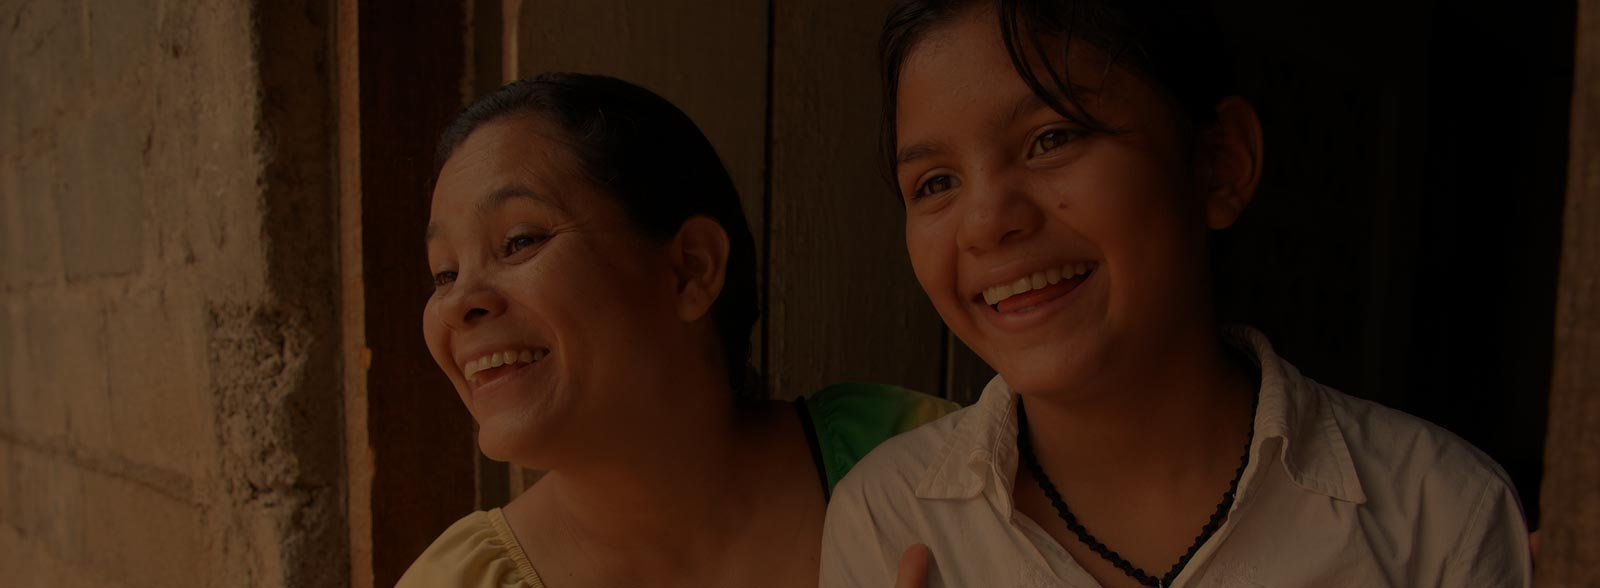
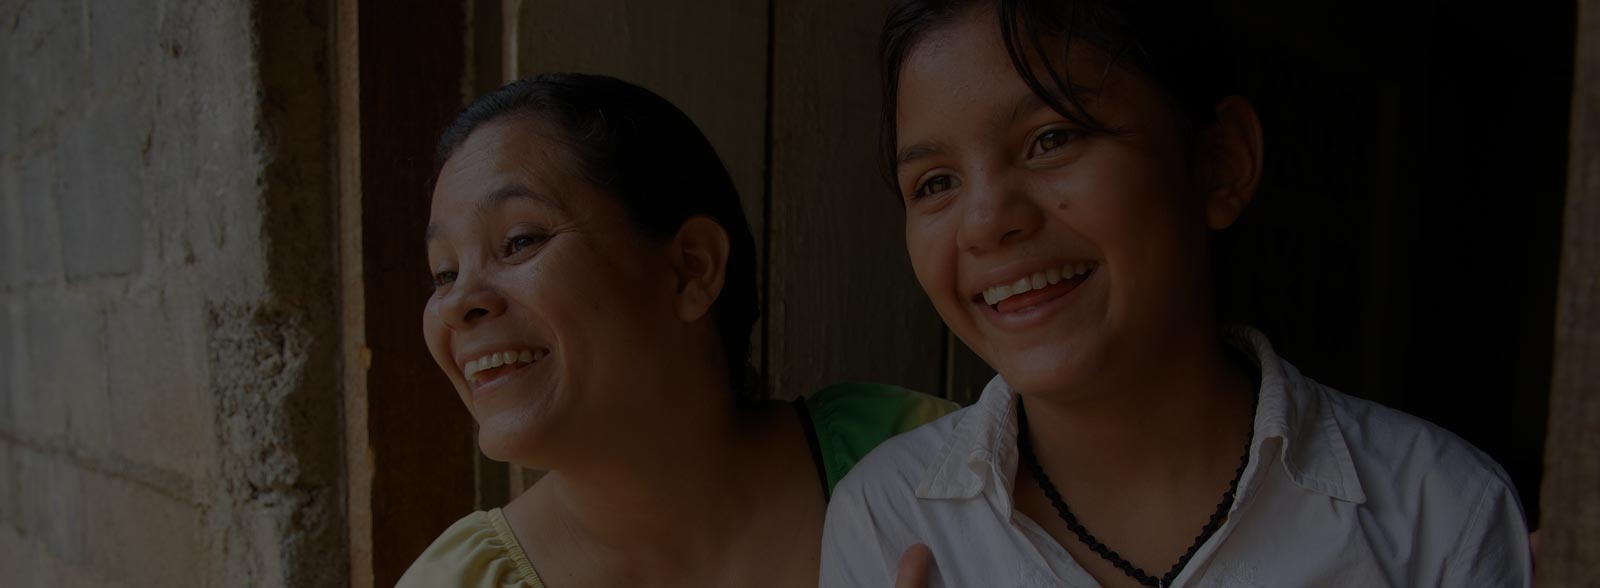
Update Int hero imgs / Fix event grid

diff --git a/sites/all/themes/gfcd/assets/css/application.css b/sites/all/themes/gfcd/assets/css/application.css
@@ -928,7 +928,7 @@ button {
 
 .hero {
   position: relative;
-  background: #212121 url('../images/hero-int-01.jpg?1408314159') no-repeat center center;
+  background: #212121 url('../images/hero-int-01.jpg?1409853054') no-repeat center center;
   background-size: cover;
   text-align: center;
   color: #fff;
@@ -1062,6 +1062,10 @@ button {
 }
 .page-node-3 .hero .icon-arrow-down:hover {
   opacity: 1;
+}
+
+.page-node-4 .hero {
+  background-image: url('../images/hero-int-02.jpg?1409853034');
 }
 
 .sub-nav {
@@ -1202,11 +1206,14 @@ button {
 
 .view-events .col-1-3 {
   position: relative;
-  width: 100%;
-  max-width: 400px;
   margin: 0 auto 24px;
 }
-@media (min-width: 600px) {
+@media (max-width: 600px) {
+  .view-events .col-1-3 {
+    max-width: 400px;
+  }
+}
+@media (max-width: 800px) and (min-width: 600px) {
   .view-events .col-1-3 {
     width: 50%;
     margin-bottom: 24px;

diff --git a/sites/all/themes/gfcd/assets/sass/components/_events-grid.scss b/sites/all/themes/gfcd/assets/sass/components/_events-grid.scss
@@ -1,11 +1,13 @@
 
 .view-events .col-1-3 {
   position: relative;
-  width: 100%;
-  max-width: 400px;
   margin: 0 auto $base;
+  
+  @include bp-max-width($small) {
+    max-width: 400px;
+  }
 
-  @include bp-min-width($small) {
+  @include bp-min-max($small, $medium) {
     width: 50%;
     margin-bottom: $base;
   }

diff --git a/sites/all/themes/gfcd/assets/sass/base/_images.scss b/sites/all/themes/gfcd/assets/sass/base/_images.scss
@@ -5,6 +5,7 @@
 
 $hero: image-url("hero.jpg");
 $hero-int-01: image-url("hero-int-01.jpg");
+$hero-int-02: image-url("hero-int-02.jpg");
 
 $arrow-down: image-url("arrow-down.svg");
 $arrow-right: image-url("arrow-right.svg");

diff --git a/sites/all/themes/gfcd/assets/sass/components/_hero.scss b/sites/all/themes/gfcd/assets/sass/components/_hero.scss
@@ -76,7 +76,6 @@
   }
 }
 
-
 .page-node-3 .hero {
   position: relative;
   padding-bottom: $base*1.5;
@@ -139,4 +138,8 @@
       opacity: 1;
     }
   }
+}
+
+.page-node-4 .hero {
+  background-image: $hero-int-02;
 }
